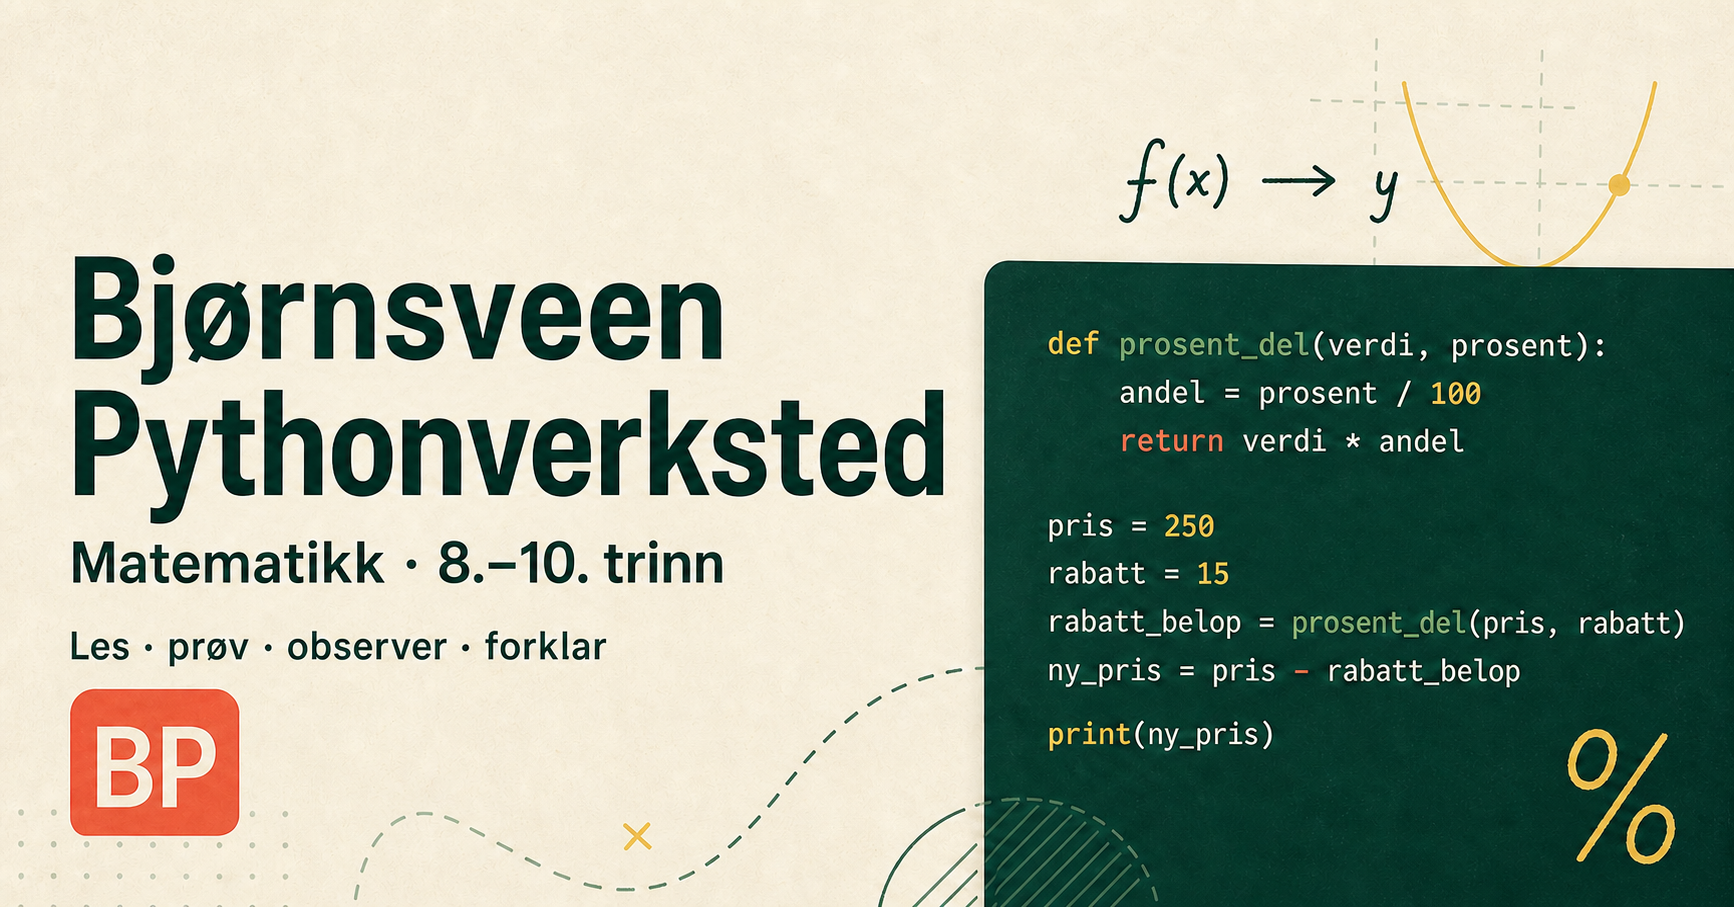
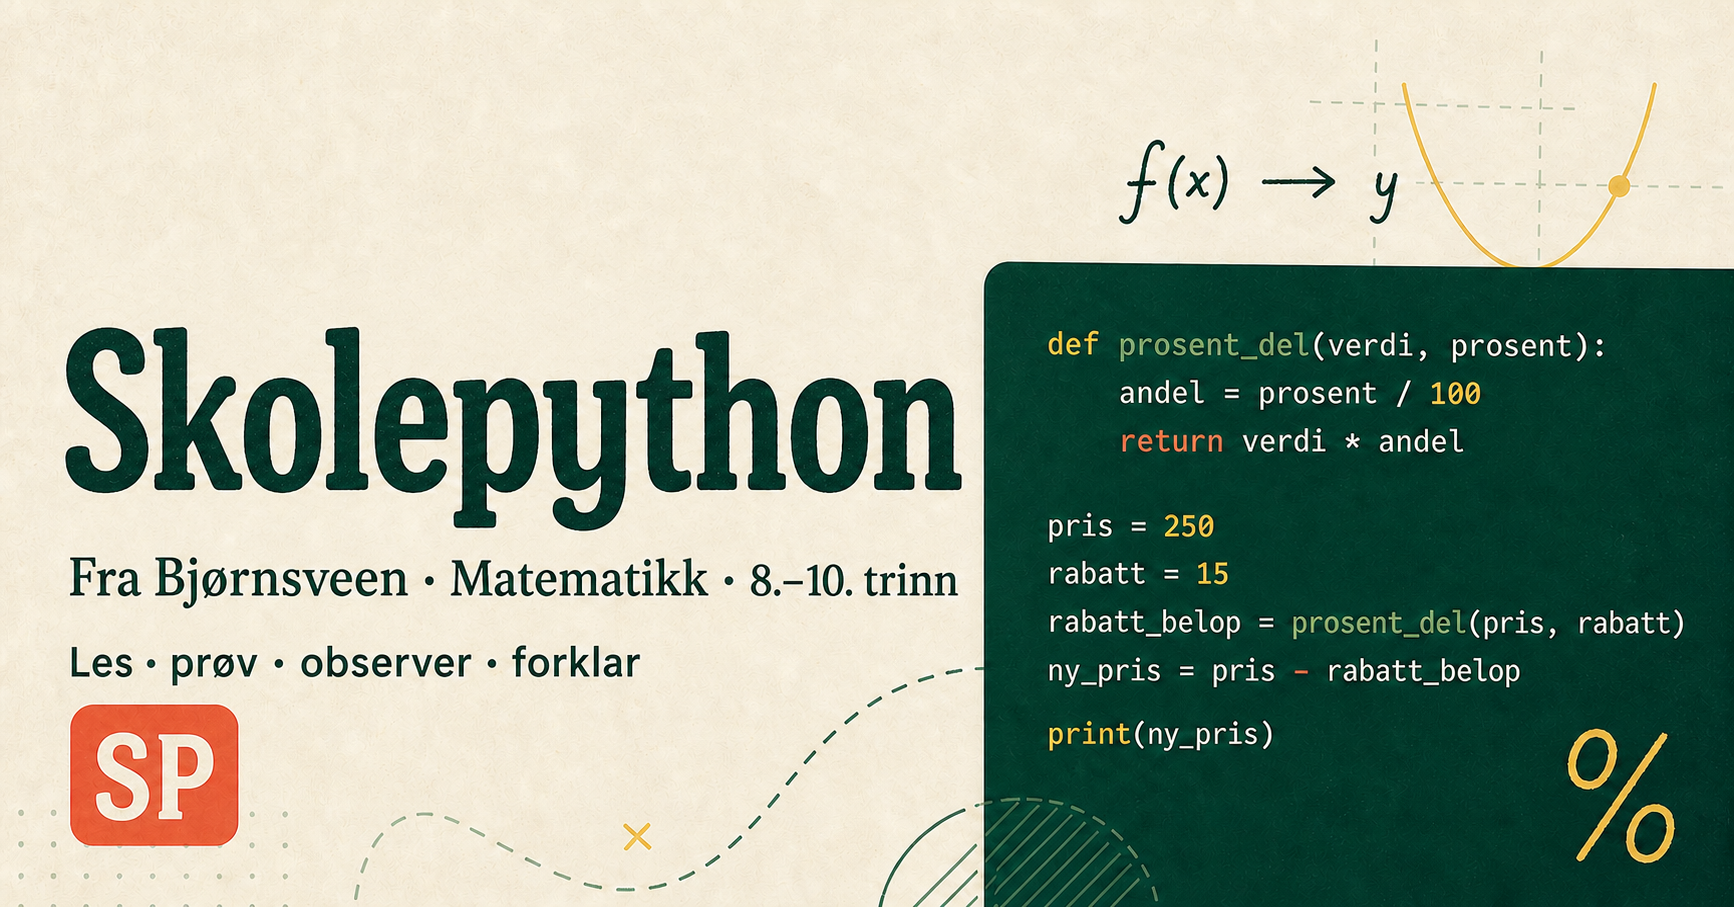
Gi prosjektet navnet Skolepython

diff --git a/webapp/app/page.tsx b/webapp/app/page.tsx
@@ -2921,7 +2921,7 @@ function createTurtleSvg(drawing: TurtleDrawing, settings: TurtleWorkshopSetting
   }
 
   const modeNames: Record<TurtleVectorMode, string> = { centerline: "senterlinje", edges: "to ytterlinjer", outline: "lukket omriss" };
-  return `<?xml version="1.0" encoding="UTF-8"?>\n<svg xmlns="http://www.w3.org/2000/svg" width="${widthMm}mm" height="${Number(heightMm.toFixed(2))}mm" viewBox="${viewLeft} ${viewTop} ${viewport.worldWidth} ${viewport.worldHeight}">\n  <title>${xmlEscape(drawing.title || "Turtle-tegning")}</title>\n  <desc>Laget i Bjørnsveen Pythonverksted. Vektortype: ${modeNames[settings.mode]}. Transparent bakgrunn.</desc>\n  <g id="turtle-vektorer">\n    ${[...fillElements, ...vectorElements, ...textElements].join("\n    ")}\n  </g>\n</svg>\n`;
+  return `<?xml version="1.0" encoding="UTF-8"?>\n<svg xmlns="http://www.w3.org/2000/svg" width="${widthMm}mm" height="${Number(heightMm.toFixed(2))}mm" viewBox="${viewLeft} ${viewTop} ${viewport.worldWidth} ${viewport.worldHeight}">\n  <title>${xmlEscape(drawing.title || "Turtle-tegning")}</title>\n  <desc>Laget i Skolepython fra Bjørnsveen. Vektortype: ${modeNames[settings.mode]}. Transparent bakgrunn.</desc>\n  <g id="turtle-vektorer">\n    ${[...fillElements, ...vectorElements, ...textElements].join("\n    ")}\n  </g>\n</svg>\n`;
 }
 
 function renderTurtleFrame(canvas: HTMLCanvasElement, drawing: TurtleDrawing, frame: number, workshop = defaultTurtleWorkshop, workshopPreview = false) {
@@ -3786,7 +3786,7 @@ export default function Home() {
     const message = feedbackMessage.trim();
     if (!message) return;
     const context = playground ? "Python" : curriculumView ? "Læreplanmål" : `Modul ${active.id}: ${active.title}`;
-    const subject = `Bjørnsveen Pythonverksted: ${feedbackKind} – ${context}`;
+    const subject = `Skolepython · Bjørnsveen: ${feedbackKind} – ${context}`;
     const body = [
       "Hei!",
       "",
@@ -3797,7 +3797,7 @@ export default function Home() {
       `Område: ${context}`,
       `Skole: ${feedbackSchool.trim() || "Ikke oppgitt"}`,
       `Navn: ${feedbackName.trim() || "Ikke oppgitt"}`,
-      "Versjon: 0.10.0",
+      "Versjon: 0.11.0",
     ].join("\n");
     setFeedbackDialogOpen(false);
     window.location.href = `mailto:eirik.gaarde+skolepython@gmail.com?subject=${encodeURIComponent(subject)}&body=${encodeURIComponent(body)}`;
@@ -4402,11 +4402,11 @@ export default function Home() {
   return (
     <main>
       <header className="topbar">
-        <a className="brand" href="#top" aria-label="Bjørnsveen Pythonverksted hjem">
+        <a className="brand" href="#top" aria-label="Skolepython fra Bjørnsveen – hjem">
           <span className="brand-mark"><img src="./brand/kodeormen-256.png" width="58" height="58" alt="" decoding="sync" /></span>
           <span>
-            <strong>Bjørnsveen Pythonverksted</strong>
-            <small>Matematikk · 8.–10. trinn</small>
+            <strong>Skolepython</strong>
+            <small>Fra Bjørnsveen · Matematikk · 8.–10. trinn</small>
           </span>
         </a>
         <div className="module-picker">
@@ -4841,7 +4841,7 @@ export default function Home() {
 
             <section className="content-section curriculum-note">
               <strong>Faglig avgrensning</strong>
-              <p>Koblingene er didaktiske forslag fra Bjørnsveen Pythonverksted, ikke en del av Udirs ordlyd. Læreplanmålene er gjengitt fra MAT01-06, som gjelder fra 1. august 2026.</p>
+              <p>Koblingene er didaktiske forslag fra Skolepython ved Bjørnsveen, ikke en del av Udirs ordlyd. Læreplanmålene er gjengitt fra MAT01-06, som gjelder fra 1. august 2026.</p>
               <div>{(["8", "9", "10"] as const).map((grade) => <a href={curriculumSources[grade]} target="_blank" rel="noreferrer" key={grade}>Udir: {grade}. trinn ↗</a>)}</div>
             </section>
           </article>

diff --git a/webapp/index.html b/webapp/index.html
@@ -4,9 +4,9 @@
     <meta charset="UTF-8" />
     <meta name="viewport" content="width=device-width, initial-scale=1.0" />
     <meta name="theme-color" content="#173f3a" />
-    <meta name="description" content="Bjørnsveen Pythonverksted – et digitalt hefte og Python-laboratorium for ungdomstrinnet." />
+    <meta name="description" content="Skolepython fra Bjørnsveen – et digitalt hefte og Python-laboratorium for ungdomstrinnet." />
     <meta property="og:type" content="website" />
-    <meta property="og:title" content="Bjørnsveen Pythonverksted | Matematikk 8.–10. trinn" />
+    <meta property="og:title" content="Skolepython | Fra Bjørnsveen · Matematikk 8.–10. trinn" />
     <meta property="og:description" content="Les, prøv, observer og forklar med ekte Python i nettleseren." />
     <meta property="og:url" content="https://hrafnir.github.io/pythonverkstedet/" />
     <meta property="og:image" content="https://hrafnir.github.io/pythonverkstedet/og.png" />
@@ -14,7 +14,7 @@
     <meta name="twitter:image" content="https://hrafnir.github.io/pythonverkstedet/og.png" />
     <link rel="icon" type="image/png" href="./brand/kodeormen-favicon.png" />
     <link rel="apple-touch-icon" href="./brand/kodeormen-touch.png" />
-    <title>Bjørnsveen Pythonverksted | Matematikk 8.–10. trinn</title>
+    <title>Skolepython | Fra Bjørnsveen · Matematikk 8.–10. trinn</title>
   </head>
   <body>
     <div id="root"></div>

diff --git a/webapp/README.md b/webapp/README.md
@@ -1,13 +1,14 @@
-# Bjørnsveen Pythonverksted
+# Skolepython
 
-Digitalt hefte og Python-laboratorium for matematikk på 8.–10. trinn.
+Fra Bjørnsveen: digitalt hefte og Python-laboratorium for matematikk på 8.–10. trinn.
 
 ## Innhold
 
-- seks moduler: variabler, vilkår, løkker, funksjoner, simulering og modellering
+- ni moduler fra variabler og vilkår til Turtle, spill og eksamensklare funksjonsgrafer
 - arbeidsflyten problemstilling → teori → prøv → observer → oppgave
 - progresjonsstiger med små, kjørbare steg fra enkel forståelse til valgfri elegant kode
-- søkbar Python-håndbok i Fritt Python-rom med kommandoer, kjørbare eksempler, eksperimenter og feilsøking
+- søkbar Python-håndbok i Python-rommet med kommandoer, kjørbare eksempler, eksperimenter og feilsøking
+- kontekstnære mini-tutorials som kan holdes åpne mens eleven skriver kode
 - ekte Python i nettleseren ved hjelp av Pyodide
 - elevmodus og lærermodus
 - lærertips, typiske misforståelser, vurderingsstøtte og utvidelser
@@ -21,6 +22,7 @@ Digitalt hefte og Python-laboratorium for matematikk på 8.–10. trinn.
 - Skaperverksted-meny med ekte SVG-eksport i millimeter, farge- og tykkelsesvalg, senterlinje, ytterlinjer og lukket kutteomriss
 - kodeeditor med Tab-innrykk, justerbar skriftstørrelse og fullskjerm
 - skrivelab med tydelig skille mellom koden eleven skal skrive, forklaringen og praktiske handlinger
+- strukturert tilbakemelding via brukerens eget e-postprogram; meldinger sendes ikke av appen
 
 ## Lokal utvikling
 

diff --git a/FEEDBACK-OPPSETT.md b/FEEDBACK-OPPSETT.md
@@ -1,4 +1,4 @@
-# Tilbakemeldinger fra Bjørnsveen Pythonverksted
+# Tilbakemeldinger fra Skolepython · Bjørnsveen
 
 Appen klargjør e-post til:
 
